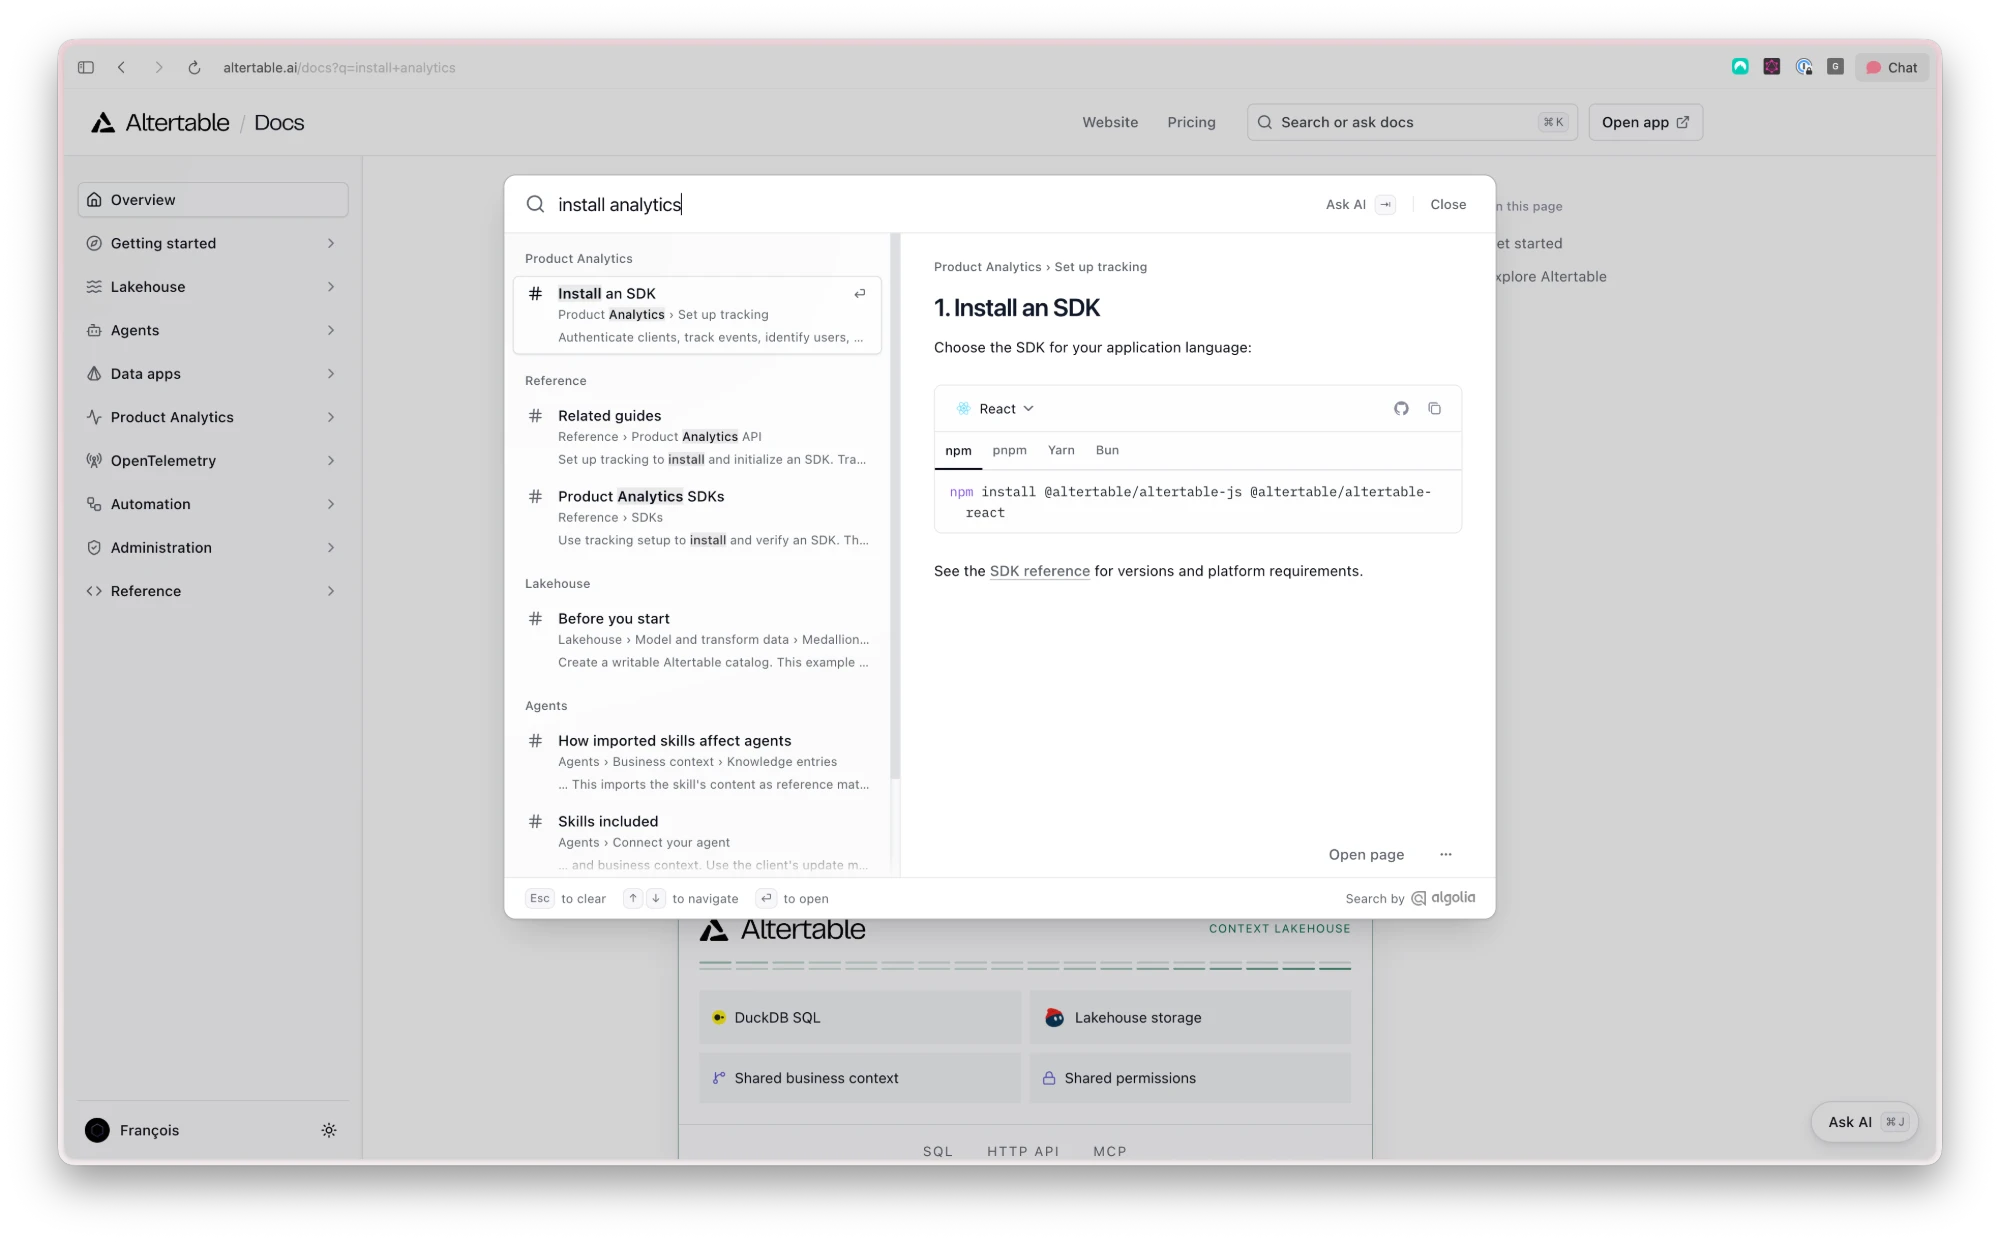
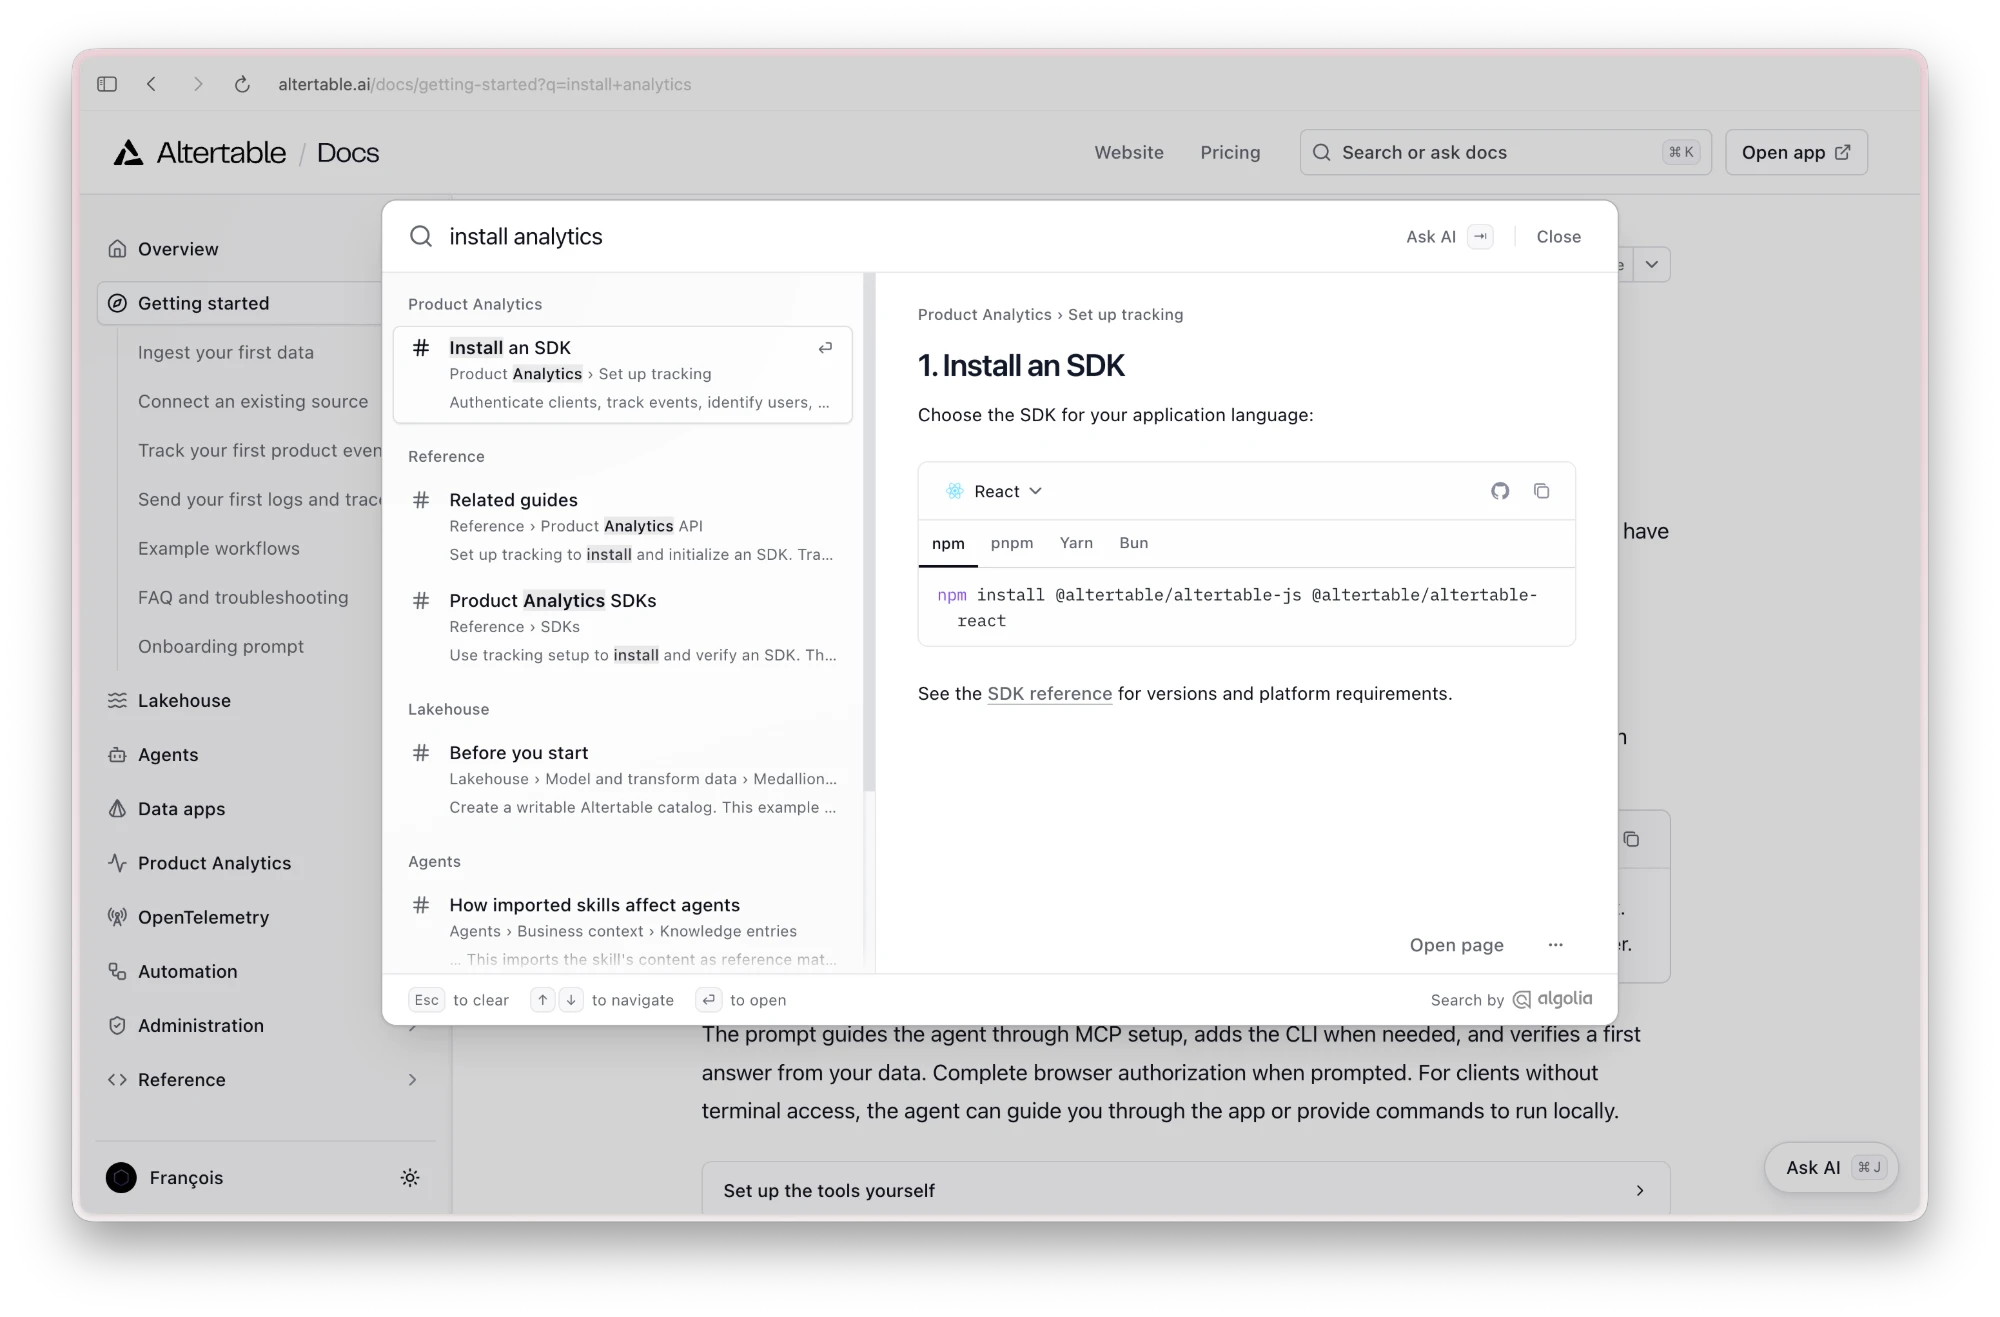
docs: update the README screenshots and stack them
Use new captures with matching transparent margins, compressed with the
same lossless pass, and show them at full width so the interface text
is readable.

diff --git a/README.md b/README.md
@@ -19,8 +19,11 @@
 Docspot gives a documentation site a <kbd>⌘K</kbd> search dialog and an Ask AI chat panel, or either one alone. It handles the interface, keyboard and screen reader support, mobile layouts, history, and shareable URLs. You bring the search function, the [AI SDK](https://ai-sdk.dev) chat transport, and your site's routing.
 
 <p align="center">
-  <img src=".github/assets/search.webp" width="49%" alt="The Docspot search dialog on the Altertable docs, with grouped results for &quot;install analytics&quot; and a preview of the selected section">
-  <img src=".github/assets/chat.webp" width="49%" alt="The Docspot Ask AI panel on the Altertable docs, answering &quot;install analytics&quot; with steps and links to the relevant pages">
+  <img src=".github/assets/search.webp" alt="The Docspot search dialog on the Altertable docs, with grouped results for &quot;install analytics&quot; and a preview of the selected section">
+</p>
+
+<p align="center">
+  <img src=".github/assets/chat.webp" alt="The Docspot Ask AI panel on the Altertable docs, answering &quot;install analytics&quot; with steps and links to the relevant pages">
 </p>
 
 <p align="center"><sub>Search and Ask AI on the <a href="https://altertable.ai/docs">Altertable docs</a>.</sub></p>
